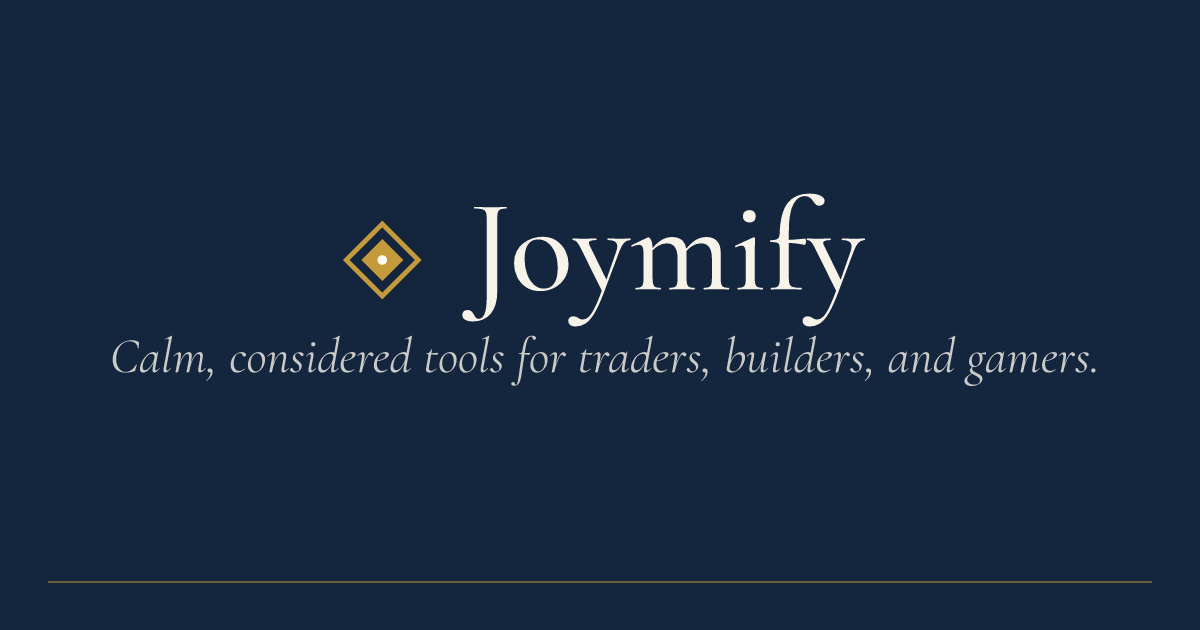
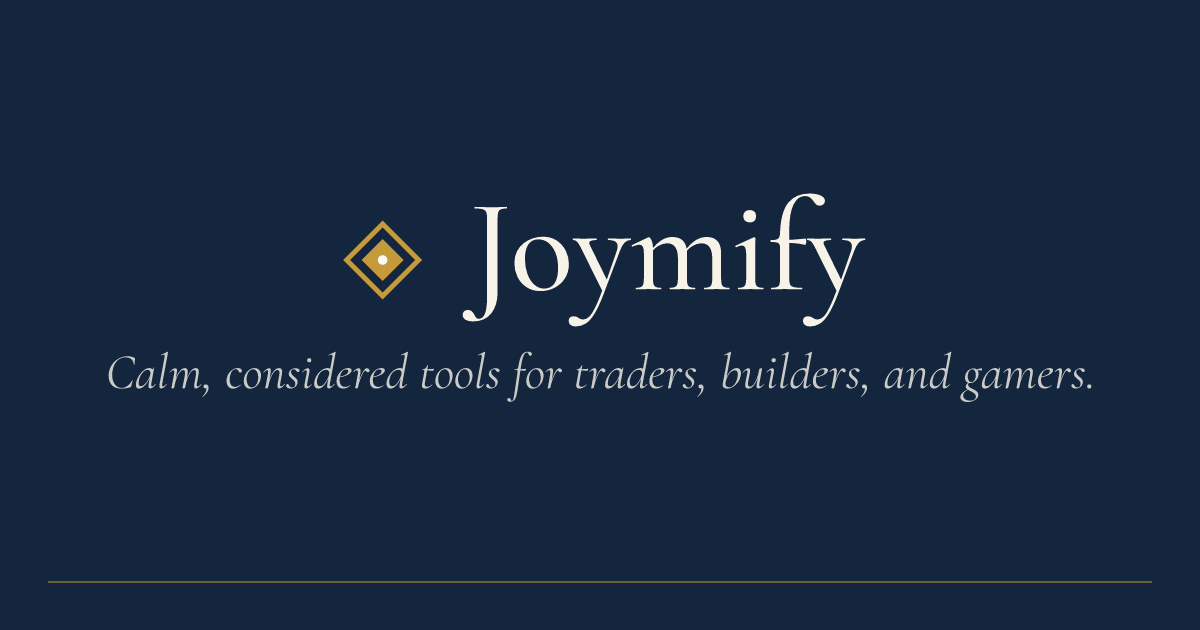
fix(F-043): review round 1 — colour role tests, geometry pin, opacity fix
Addresses code-reviewer + typescript-reviewer findings on Batch A:

- PROVENANCE.md: add the exact @fontsource/cormorant-garamond (5.3.0) and
  opentype.js (2.0.0) versions, read from pnpm-lock.yaml.
- render.js: hero banner diamond opacity now normalises against the last
  reachable cell centre (width - cell/2), so it actually reaches 0.35 at
  the right edge instead of topping out at 0.33. Round each layout scale
  once and reuse it everywhere (mark/wordmark/tagline), instead of an
  unrounded scale for layout math but a rounded one in the SVG transform,
  which was silently drifting the OG tagline off-centre. Give the OG
  tagline more clearance below the wordmark's descenders (+80 vs +64).
- packages/tokens/test/brand.test.js: assert each --joy-brand-* var
  resolves to the exact expected primitive (e.g. light mark == gold-600,
  dark mark == gold-300), not just "looks like a hex colour".
- packages/brand/test/brand.test.js: pin the canonical MARK geometry with
  deepStrictEqual; assert per-asset colour ROLE (mark.svg tile/outline/
  inner/dot, mark-bare uses `mark` not `markOnTile`, wordmark-deep uses
  `ink`, wordmark-cream uses `tile`+`inkOnTile`, og-card background uses
  `tile`); reject any rgb()/hsl()/named colour or 3-digit hex in any
  asset; clean up the drift-test temp dir in a finally block. Verified
  the new role test actually fails on a deliberately swapped ink/inkOnTile
  regression, then reverted.
[…]

diff --git a/packages/brand/test/brand.test.js b/packages/brand/test/brand.test.js
@@ -19,10 +19,14 @@ test('F-043: geometry is non-empty path data', () => {
 
 test('F-043: every asset exists and committed SVGs match a fresh build', () => {
   const tmp = fs.mkdtempSync(path.join(os.tmpdir(), 'brand-'));
-  execFileSync(process.execPath, [path.join(root, 'build.js'), '--out', tmp]);
-  for (const f of ASSETS) {
-    assert.ok(fs.existsSync(path.join(root, 'assets', f)), `${f} committed`);
-    if (f.endsWith('.svg')) assert.strictEqual(fs.readFileSync(path.join(tmp, f), 'utf8'), fs.readFileSync(path.join(root, 'assets', f), 'utf8'), `${f} drift`);
+  try {
+    execFileSync(process.execPath, [path.join(root, 'build.js'), '--out', tmp]);
+    for (const f of ASSETS) {
+      assert.ok(fs.existsSync(path.join(root, 'assets', f)), `${f} committed`);
+      if (f.endsWith('.svg')) assert.strictEqual(fs.readFileSync(path.join(tmp, f), 'utf8'), fs.readFileSync(path.join(root, 'assets', f), 'utf8'), `${f} drift`);
+    }
+  } finally {
+    fs.rmSync(tmp, { recursive: true, force: true });
   }
 });
 
@@ -49,4 +53,100 @@ test('F-043: markSvg honours tile flag and title', () => {
   assert.match(markSvg({ palette: p }), /<rect[^>]*rx="6"/);
   assert.ok(!/<rect/.test(markSvg({ palette: p, tile: false })));
   assert.match(ogCardSvg({ palette: p }), /<title>Joymify<\/title>/);
+});
+
+// --- Fix round 1 (code-reviewer I1, I2) ---------------------------------
+
+// I2: nothing previously pinned the canonical mark geometry itself. Editing
+// geometry.js and rebuilding would keep every other test green, because the
+// drift test only compares build output against build output, and the
+// "geometry is non-empty path data" test only checks path grammar. This
+// locks the exact literal from the F-043 Global Constraints.
+test('F-043: canonical mark geometry is pinned exactly', () => {
+  assert.deepStrictEqual(MARK, {
+    viewBox: '0 0 32 32',
+    tileRx: 6,
+    outline: 'M16 4 28 16 16 28 4 16Z',
+    outlineWidth: 1.6,
+    inner: 'M16 9 23 16 16 23 9 16Z',
+    dot: { cx: 16, cy: 16, r: 1.6 }
+  });
+});
+
+function escapeRegExp(s) {
+  return s.replace(/[.*+?^${}()|[\]\\]/g, '\\$&');
+}
+
+// I1: "every hex is *some* brand palette value" does not catch a wrong
+// colour ROLE (e.g. markGroup filling the tile with markOnTile, or
+// wordmarkSvg swapping ink and mark) — that would still be "a brand token",
+// just the wrong one. Assert the specific role each asset is documented to
+// use, reading straight from the committed files.
+test('F-043: asset colours match their documented role, not just any brand token', () => {
+  const p = readPalette();
+  const read = (f) => fs.readFileSync(path.join(root, 'assets', f), 'utf8');
+  const outlineRe = new RegExp(`<path d="${escapeRegExp(MARK.outline)}" fill="none" stroke="(#[0-9a-f]{6})" stroke-width="1\\.6"/>`, 'i');
+  const innerRe = new RegExp(`<path d="${escapeRegExp(MARK.inner)}" fill="(#[0-9a-f]{6})"/>`, 'i');
+
+  // mark.svg / favicon.svg (tile:true, default): tile rect = palette.tile,
+  // outline stroke + inner fill = palette.markOnTile, dot = palette.markContrast.
+  for (const f of ['mark.svg', 'favicon.svg']) {
+    const svg = read(f);
+    assert.match(svg, new RegExp(`<rect width="32" height="32" rx="6" fill="${p.tile}"/>`), `${f} tile rect fill`);
+    assert.strictEqual(svg.match(outlineRe)?.[1]?.toLowerCase(), p.markOnTile, `${f} outline stroke`);
+    assert.strictEqual(svg.match(innerRe)?.[1]?.toLowerCase(), p.markOnTile, `${f} inner fill`);
+    assert.match(svg, new RegExp(`<circle cx="16" cy="16" r="1\\.6" fill="${p.markContrast}"/>`), `${f} dot fill`);
+  }
+
+  // mark-bare.svg (tile:false): no rect, no dot; outline + inner = palette.mark.
+  {
+    const svg = read('mark-bare.svg');
+    assert.ok(!/<rect/.test(svg), 'mark-bare.svg has no tile rect');
+    assert.ok(!/<circle/.test(svg), 'mark-bare.svg omits the dot');
+    assert.strictEqual(svg.match(outlineRe)?.[1]?.toLowerCase(), p.mark, 'mark-bare.svg outline stroke');
+    assert.strictEqual(svg.match(innerRe)?.[1]?.toLowerCase(), p.mark, 'mark-bare.svg inner fill');
+  }
+
+  // wordmark-deep.svg: transparent background, glyph fill = palette.ink.
+  {
+    const svg = read('wordmark-deep.svg');
+    assert.ok(!/<rect/.test(svg), 'wordmark-deep.svg has no background rect');
+    assert.match(svg, new RegExp(`fill="${p.ink}"`), 'wordmark-deep.svg glyph fill');
+    assert.ok(!svg.includes(`fill="${p.inkOnTile}"`), 'wordmark-deep.svg does not use inkOnTile');
+  }
+
+  // wordmark-cream.svg: full-bleed tile background, glyph fill = palette.inkOnTile.
+  {
+    const svg = read('wordmark-cream.svg');
+    assert.match(svg, new RegExp(`<rect[^>]*fill="${p.tile}"/>`), 'wordmark-cream.svg background rect');
+    assert.match(svg, new RegExp(`fill="${p.inkOnTile}"`), 'wordmark-cream.svg glyph fill');
+  }
+
+  // og-card.svg: full-card background = palette.tile.
+  {
+    const svg = read('og-card.svg');
+    assert.match(svg, new RegExp(`<rect width="1200" height="630" fill="${p.tile}"/>`), 'og-card.svg background rect');
+  }
+});
+
+// I1 (colour-format half): the previous "trace to brand tokens" test only
+// scanned for 6-digit hex; rgb()/hsl()/named colours or a 3-digit hex would
+// pass unnoticed. Every fill/stroke attribute must be either "none" or an
+// exact 6-digit hex, and no colour function may appear anywhere.
+test('F-043: no rgb()/hsl()/named colours or 3-digit hex leak into assets', () => {
+  for (const f of ASSETS.filter((a) => a.endsWith('.svg'))) {
+    const svg = fs.readFileSync(path.join(root, 'assets', f), 'utf8');
+    assert.ok(!/\b(?:rgb|rgba|hsl|hsla)\(/i.test(svg), `${f}: rgb()/hsl() colour function found`);
+
+    const threeDigitHex = svg.match(/#[0-9a-f]{3}(?![0-9a-f])/gi) ?? [];
+    assert.deepStrictEqual(threeDigitHex, [], `${f}: 3-digit hex colour(s) found: ${threeDigitHex.join(', ')}`);
+
+    for (const attr of svg.match(/\b(?:fill|stroke)="[^"]*"/g) ?? []) {
+      const value = attr.slice(attr.indexOf('"') + 1, -1);
+      assert.ok(
+        value === 'none' || /^#[0-9a-f]{6}$/i.test(value),
+        `${f}: ${attr} is neither "none" nor a 6-digit hex colour`
+      );
+    }
+  }
 });

diff --git a/packages/brand/src/render.js b/packages/brand/src/render.js
@@ -66,7 +66,11 @@ export function wordmarkSvg({ palette, tone = 'deep' }) {
   const lockupHeight = 80;
   const wordmarkTargetHeight = 40;
 
-  const scale = wordmarkTargetHeight / WORDMARK.baseline;
+  // Rounded once here and reused for every layout computation below, so the
+  // centring/width math always agrees with the transform="scale(...)" that
+  // actually gets rendered (an unrounded scale used for layout but a rounded
+  // one in the transform silently drifts the result off-centre).
+  const scale = round2(wordmarkTargetHeight / WORDMARK.baseline);
   const wmWidth = round2(WORDMARK.width * scale);
   const width = round2(wmWidth + 96);
 
@@ -103,7 +107,8 @@ export function ogCardSvg({ palette }) {
   const markSize = 96;
   const gap = 32;
   const wordmarkTargetHeight = 96;
-  const scale = wordmarkTargetHeight / WORDMARK.baseline;
+  // Rounded once and reused throughout (see the comment in wordmarkSvg).
+  const scale = round2(wordmarkTargetHeight / WORDMARK.baseline);
   const wmWidth = round2(WORDMARK.width * scale);
   const lockupWidth = round2(markSize + gap + wmWidth);
   const lockupX = round2((width - lockupWidth) / 2);
@@ -116,10 +121,15 @@ export function ogCardSvg({ palette }) {
   const wordmarkY = round2(markCenterY + scale * (WORDMARK.baseline - WORDMARK.height / 2));
 
   const taglineTargetHeight = 36;
-  const taglineScale = taglineTargetHeight / TAGLINE.baseline;
+  // Rounded once and reused throughout (see the comment in wordmarkSvg).
+  const taglineScale = round2(taglineTargetHeight / TAGLINE.baseline);
   const taglineWidth = round2(TAGLINE.width * taglineScale);
   const taglineX = round2((width - taglineWidth) / 2);
-  const taglineY = round2(lockupCenterY + markSize / 2 + 64);
+  // +80 (not +64): the wordmark's descenders (e.g. the "y" in Joymify) reach
+  // well below its baseline, so a small gap here crowds the tagline's cap
+  // line against them. +80 clears the descenders with room to spare while
+  // staying well above the rule at height - 48.
+  const taglineY = round2(lockupCenterY + markSize / 2 + 80);
 
   const ruleInset = 48;
   const ruleY = round2(height - ruleInset);
@@ -158,6 +168,13 @@ export function heroBannerSvg({ palette }) {
   const rows = Math.ceil(height / cell) + 1;
   const fadeStart = width * 0.55;
   const maxOpacity = 0.35;
+  // Diamonds are sampled at cell centres, so the rightmost one actually
+  // drawn is centred at (width - cell/2), not at the viewBox edge (width).
+  // Normalising by (width - fadeStart) would therefore always fall short of
+  // maxOpacity (0.33 instead of 0.35). Normalise by the distance from
+  // fadeStart to that last reachable centre instead, so the last column
+  // hits maxOpacity exactly.
+  const fadeRange = width - cell / 2 - fadeStart;
 
   let diamonds = '';
   for (let row = 0; row < rows; row += 1) {
@@ -166,7 +183,7 @@ export function heroBannerSvg({ palette }) {
       const y = row * cell;
       const centerX = x + cell / 2;
       if (centerX <= fadeStart) continue;
-      const opacity = round2(Math.min(maxOpacity, (maxOpacity * (centerX - fadeStart)) / (width - fadeStart)));
+      const opacity = round2(Math.min(maxOpacity, (maxOpacity * (centerX - fadeStart)) / fadeRange));
       if (opacity <= 0) continue;
       diamonds += `<g transform="translate(${x} ${y}) scale(2)"><path d="${MARK.outline}" fill="none" stroke="${palette.markOnTile}" stroke-width="0.5" stroke-opacity="${opacity}"/></g>`;
     }

diff --git a/packages/brand/build.js b/packages/brand/build.js
@@ -5,11 +5,13 @@
 import fs from 'node:fs';
 import path from 'node:path';
 import { execFileSync } from 'node:child_process';
+import { createRequire } from 'node:module';
 import { fileURLToPath, pathToFileURL } from 'node:url';
 
 import { markSvg, wordmarkSvg, ogCardSvg, heroBannerSvg } from './src/index.js';
 
 const __dirname = path.dirname(fileURLToPath(import.meta.url));
+const require = createRequire(import.meta.url);
 
 const PALETTE_KEYS = ['tile', 'mark', 'mark-on-tile', 'mark-contrast', 'ink', 'ink-on-tile'];
 
@@ -22,12 +24,32 @@ function isHexColor(value) {
 }
 
 /**
+ * Locates the installed @joymify/tokens package directory via Node's own
+ * node_modules search order (require.resolve.paths), rather than a
+ * hardcoded relative "../tokens" path. @joymify/tokens is declared as a
+ * devDependency (workspace:*) precisely so this resolves through the
+ * package manager/turbo's dependency graph instead of directory layout
+ * assumptions; it also gives turbo's `^build` pipeline the edge it needs to
+ * build tokens before brand.
+ */
+function resolveTokensDir() {
+  const searchPaths = require.resolve.paths('@joymify/tokens') || [];
+  for (const base of searchPaths) {
+    const candidate = path.join(base, '@joymify/tokens');
+    if (fs.existsSync(path.join(candidate, 'package.json'))) {
+      return candidate;
+    }
+  }
+  throw new Error('readPalette: could not resolve the @joymify/tokens package directory');
+}
+
+/**
  * Reads the FIRST (light, `:root`) declaration of each --joy-brand-* token
  * from @joymify/tokens' built theme.css, and returns a camelCased palette
  * object. Builds tokens first if dist/theme.css doesn't exist yet.
  */
 export function readPalette() {
-  const tokensDir = path.resolve(__dirname, '../tokens');
+  const tokensDir = resolveTokensDir();
   const themePath = path.join(tokensDir, 'dist/theme.css');
 
   if (!fs.existsSync(themePath)) {
@@ -97,6 +119,15 @@ async function main() {
   console.log('build: wrote brand assets to', outDir);
 }
 
-if (import.meta.url === pathToFileURL(process.argv[1]).href) {
+function isMainModule() {
+  if (!process.argv[1]) return false;
+  try {
+    return import.meta.url === pathToFileURL(fs.realpathSync(process.argv[1])).href;
+  } catch {
+    return false;
+  }
+}
+
+if (isMainModule()) {
   await main();
 }

diff --git a/packages/tokens/test/brand.test.js b/packages/tokens/test/brand.test.js
@@ -20,3 +20,44 @@ test('F-043: brand vars are emitted for light and dark', () => {
 test('F-043: display font family var is emitted', () => {
   assert.match(css, /--joy-font-family-display:\s*"Cormorant Garamond"/);
 });
+
+// Fix round 1: I1 (code-reviewer) — the shape-only test above would pass
+// even if a brand var were mapped to the wrong ramp step (e.g. gold-500
+// instead of gold-600). Pin each brand var to the exact primitive it must
+// resolve to, by comparing against the --joy-color-* values in the same
+// theme.css (primitives are declared once, in :root/light, per F-036).
+test('F-043: brand vars resolve to the exact expected primitive', () => {
+  const { light, dark } = parseCssTokens(css);
+
+  const expectedLight = {
+    tile: '--joy-color-navy-500',
+    mark: '--joy-color-gold-600',
+    'mark-on-tile': '--joy-color-gold-400',
+    'mark-contrast': '--joy-color-cream-50',
+    ink: '--joy-color-navy-500',
+    'ink-on-tile': '--joy-color-cream-100'
+  };
+  const expectedDark = {
+    ...expectedLight,
+    mark: '--joy-color-gold-300',
+    ink: '--joy-color-cream-100'
+  };
+
+  for (const [key, primitiveVar] of Object.entries(expectedLight)) {
+    const brandVar = `--joy-brand-${key}`;
+    assert.strictEqual(
+      light[brandVar],
+      light[primitiveVar],
+      `light ${brandVar} should equal ${primitiveVar} (${light[primitiveVar]}), got ${light[brandVar]}`
+    );
+  }
+
+  for (const [key, primitiveVar] of Object.entries(expectedDark)) {
+    const brandVar = `--joy-brand-${key}`;
+    assert.strictEqual(
+      dark[brandVar],
+      light[primitiveVar],
+      `dark ${brandVar} should equal ${primitiveVar} (${light[primitiveVar]}), got ${dark[brandVar]}`
+    );
+  }
+});

diff --git a/packages/brand/PROVENANCE.md b/packages/brand/PROVENANCE.md
@@ -4,9 +4,10 @@
 
 - **Name:** Cormorant Garamond
 - **Weights used:** 500 (medium, normal) for the wordmark; 400 (regular, italic) for the tagline
-- **Package:** `@fontsource/cormorant-garamond` (devDependency here, outlining only — never shipped as a runtime font asset by this package)
+- **Package:** `@fontsource/cormorant-garamond` version `5.3.0` (per `pnpm-lock.yaml`; devDependency here, outlining only — never shipped as a runtime font asset by this package)
 - **Licence:** SIL Open Font License 1.1
 - **Upstream:** https://github.com/CatharsisFonts/Cormorant
+- **Outlining tool:** `opentype.js` version `2.0.0` (per `pnpm-lock.yaml`; see the NaN workaround note in `scripts/outline-text.mjs`)
 
 The wordmark and tagline are outlined to static SVG path data at build time
 (see `scripts/outline-text.mjs`), so no font file or `@font-face` is needed
